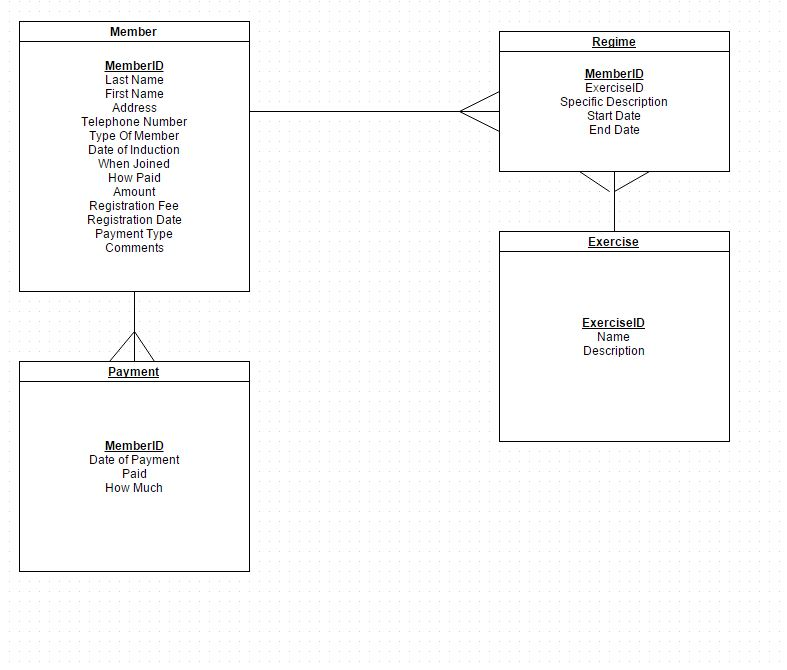
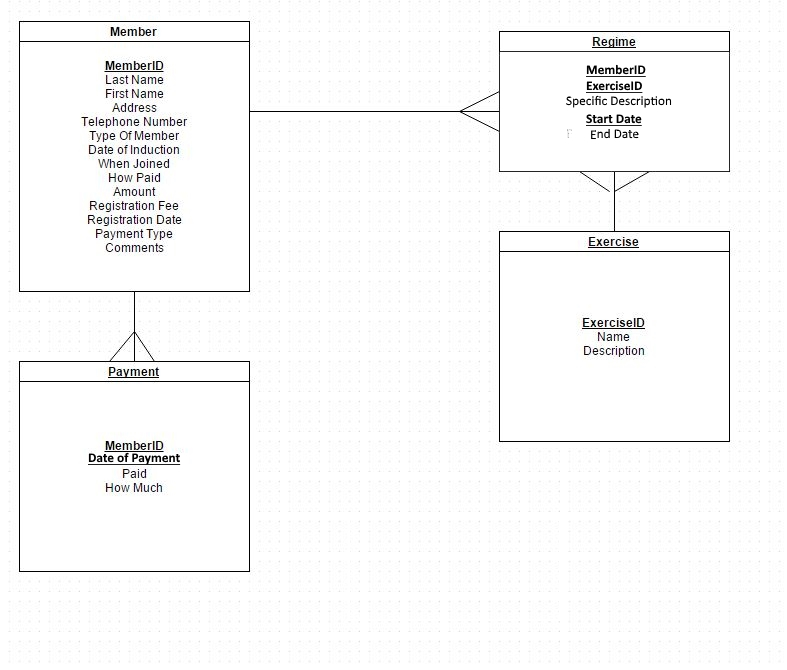
Changes from papeeria

Changed region(s): [[0.7014, 0.0896, 0.8539, 0.209], [0.122, 0.6567, 0.2135, 0.7164]]

diff --git a/Analysis/analysis.tex b/Analysis/analysis.tex
@@ -24,7 +24,7 @@ His current system involves using a series of excel spreadsheets to document his
 
 \subsection{Describe the problems}
 
-This system imposes some limitations. First of all, all the processes have to be dealt with manually through spreadsheets without anything other than lack of human error to point out a mistake or notify if someone isn't up to date with payment. This also isn't secure as any piece of information can be changed at any time and to be sure of everything debit mandates would have to be looked over, but even then some clients may have payed by cash and thus wouldn't be recoverable. Their is also the possibility of a computer error that could delete all the documents as they are not backed up anywhere. His gym also now accommodates over 1000 members meaning that he has a large number of spreadsheets for all his clients as well as having his main spreadsheet being exceptionally large meaning the program can lag, especially since the program isn't running on the greatest available hardware. Another issue is that it can be difficult to sort through and search the spreadsheets to find specific information regarding clients, for example if he needs to find they're contact information, excel doesn't have a tool to easily search for that. He also has no easy way to create invoices or just clean organised print outs of any information he needs.
+This system imposes some limitations. First of all, all the processes have to be dealt with manually meaing that all the information has to be entered into excel spreadsheets and not in an easier manner like through a digital form which would organise the data efficiently and atomatically instead of the staff having to do it themselves. This also isn't secure as any piece of information can be changed at any time by anyone who has managed to access the staff workstation and to be sure of everything debit mandates would have to be looked over, but even then some clients may have payed by cash and thus wouldn't be recoverable. Their is also the possibility of a computer error that could delete all the documents as they are not backed up anywhere. His gym also now accommodates over 1000 members meaning that he has a large number of spreadsheets for all his clients as well as having his main spreadsheet being exceptionally large meaning the program can lag, especially since the program isn't running on the greatest available hardware. Another issue is that it can be difficult to sort through and search the spreadsheets to find specific information regarding clients, for example if he needs to find they're contact information, excel doesn't have a tool to easily search for that. He also has no easy way to create invoices or just clean organised print outs of any information he needs.
 
 \subsection{Section appendix}
 
@@ -415,9 +415,9 @@ Input Forms
 
 Membership Details(\textbf{\underline{Membership No.}}, Last Name, First Name, Address, Telephone No., Type Of Membership, Date of Induction, When Joined, How Paid,amount, registration fee, Registration Date, Payment Type, Comments)
 
-Payment Details(\textbf{\underline{Membership No.}},Date of Payment, How Much, Paid)
+Payment Details(\textbf{\underline{Membership No.}},\textbf{\underline{Date of Payment}}, How Much, Paid)
 
-Regime(\textbf{\underline{Membership No.}},ExerciseID,Specific Description, Start Date, End Date)
+Regime(\textbf{\underline{Membership No.}},\textbf{\underline{ExerciseID}},Specific Description, \textbf{\underline{Start Date}, End Date)
 
 Exercise(\textbf{\underline{ExerciseID}}, Name, Description)
 
